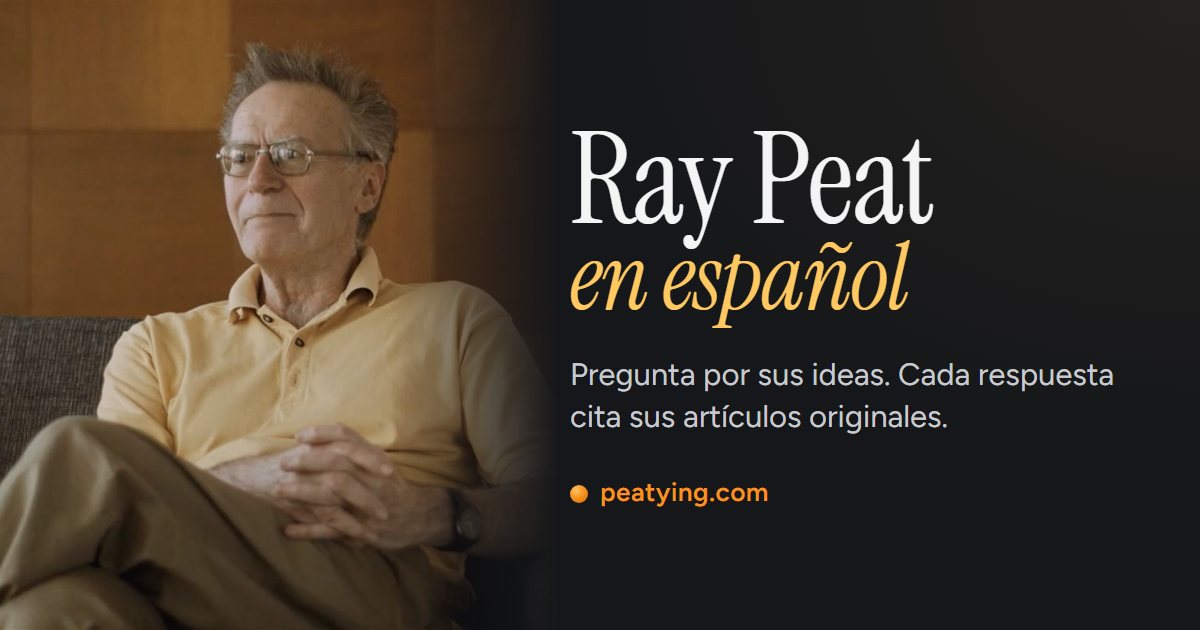
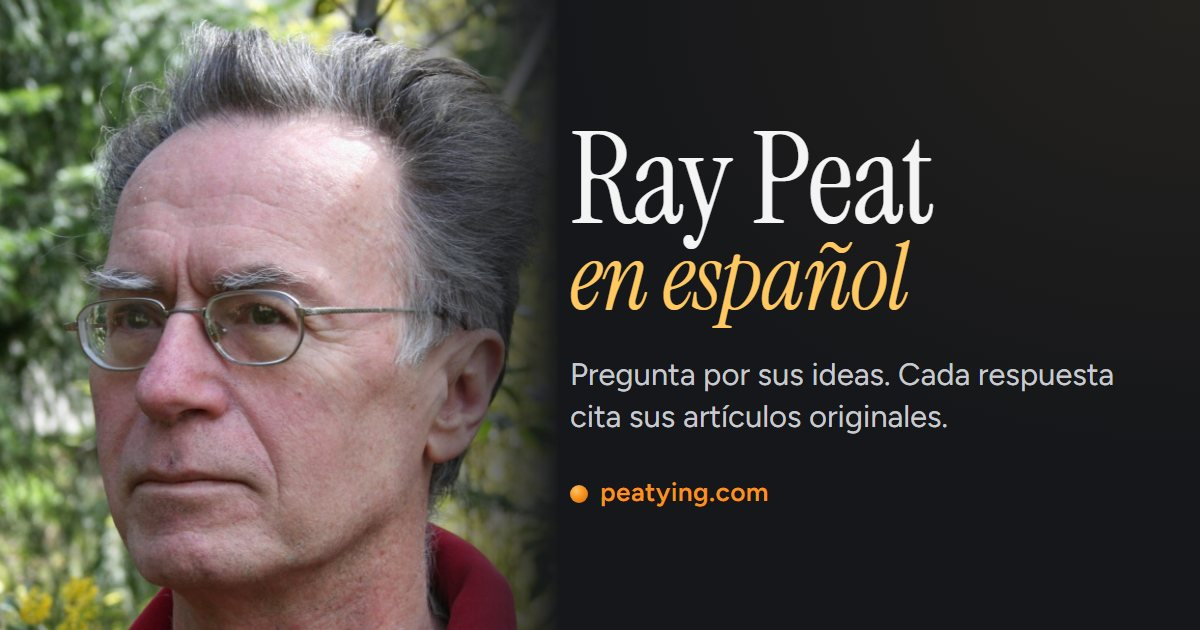
Use a sharper photo of Ray Peat and adapt the cover to portrait and landscape screens
- New photo: a real 1160x1740 portrait (the old one was an upscaled video frame).
- The photo is now an <img>: full-screen behind the title on phones; on wide screens,
  two columns with the whole photo on the left fading into the page and the title on
  the right (full-bleed, a portrait photo only showed the forehead).
- Link preview image regenerated with the new photo; alt texts updated.

diff --git a/src/main/resources/static/styles.css b/src/main/resources/static/styles.css
@@ -640,8 +640,10 @@ li .source-panel { margin: 8px 0 4px; }
 
 /* Quien pide menos animaciones (ajuste del sistema), no las ve. */
 /* --- Página "Sobre Ray Peat" (about.html) ---------------------------------------- */
-/* Portada: ocupa toda la pantalla, con la foto de fondo. El degradado oscurece la parte de abajo,
-   donde va el título, y se funde con el fondo de la página para que no haya un corte al bajar. */
+/* Portada. La foto es vertical, así que cambia según la pantalla:
+   - Móvil (vertical): la foto llena la pantalla y el título va encima, abajo.
+   - Ordenador (horizontal): dos columnas, la foto entera a la izquierda y el título a la derecha.
+     A pantalla completa, una foto vertical se ampliaría tanto que solo se vería la frente. */
 .cover {
   position: relative;
   min-height: 100vh;
@@ -651,12 +653,25 @@ li .source-panel { margin: 8px 0 4px; }
   padding: 0 20px 80px;
   text-align: center;
   overflow: hidden;
-  background:
-    /* arriba, una sombra suave para que se lea la barra que va encima; abajo, el fundido al fondo */
-    linear-gradient(to bottom, rgba(14, 15, 17, 0.7) 0%, rgba(14, 15, 17, 0) 22%),
-    linear-gradient(to top, var(--frame) 0%, rgba(22, 23, 26, 0.85) 10%, rgba(22, 23, 26, 0.7) 35%, rgba(22, 23, 26, 0.1) 70%),
-    url("img/ray-peat.jpg") center 22% / cover no-repeat;
 }
+.cover-photo {
+  position: absolute;
+  inset: 0;
+  width: 100%;
+  height: 100%;
+  object-fit: cover;                   /* llena el hueco recortando lo que sobre, sin deformar */
+  object-position: 50% 22%;            /* con la cara a la vista */
+}
+/* Encima de la foto: arriba, una sombra suave para que se lea la barra; abajo, el fundido al fondo. */
+.cover::after {
+  content: "";
+  position: absolute;
+  inset: 0;
+  background:
+    linear-gradient(to bottom, rgba(14, 15, 17, 0.7) 0%, rgba(14, 15, 17, 0) 22%),
+    linear-gradient(to top, var(--frame) 0%, rgba(22, 23, 26, 0.85) 10%, rgba(22, 23, 26, 0.7) 35%, rgba(22, 23, 26, 0.1) 70%);
+}
+.cover-text, .cover-scroll { position: relative; z-index: 1; }
 /* En esta página la barra de arriba flota sobre la foto en vez de ocupar su propia franja. */
 .about-page .topbar { position: absolute; top: 0; left: 0; right: 0; z-index: 2; color: #f4f4f5; }
 .about-page .wordmark em { color: #c9cacf; }
@@ -668,7 +683,7 @@ li .source-panel { margin: 8px 0 4px; }
 .cover h1 { margin: 6px 0 14px; font: 400 clamp(4.5rem, 16vw, 10rem)/0.9 var(--serif); letter-spacing: -0.01em; }
 .cover-sub { max-width: 30ch; margin: 0 auto; font-size: clamp(1.1rem, 3.5vw, 1.35rem); color: #d6d7db; }
 .cover-sub em { font-family: var(--serif); font-size: 1.15em; color: #ffc861; }
-.cover-scroll {
+.cover .cover-scroll {
   position: absolute;
   left: 50%;
   bottom: 28px;
@@ -679,6 +694,36 @@ li .source-panel { margin: 8px 0 4px; }
   animation: nudge 2s ease-in-out infinite;
 }
 @keyframes nudge { 50% { transform: translateY(8px); } }
+
+@media (min-width: 900px) and (min-aspect-ratio: 1/1) {
+  .cover {
+    grid-template-columns: 44% 1fr;
+    place-content: stretch;
+    align-items: center;
+    gap: 5vw;
+    padding: 0 8vw 0 0;
+    text-align: left;
+    color: var(--text);                /* aquí el título no va sobre la foto: colores del tema */
+  }
+  .cover-photo {
+    position: static;
+    grid-row: 1;
+    height: 100vh;
+    height: 100svh;
+    object-position: 50% 25%;
+    /* el borde derecho de la foto se funde con el fondo de la página */
+    -webkit-mask-image: linear-gradient(to right, #000 72%, transparent 100%);
+            mask-image: linear-gradient(to right, #000 72%, transparent 100%);
+  }
+  .cover::after { width: 44%; background: linear-gradient(to bottom, rgba(14, 15, 17, 0.6) 0%, rgba(14, 15, 17, 0) 20%); }
+  .cover h1, .cover-sub { text-shadow: none; }
+  .cover-kicker { color: var(--muted); }
+  .cover-sub { margin: 0; color: var(--text-soft); }
+  .cover-sub em { color: var(--gold); }
+  .cover .cover-scroll { left: 72%; color: var(--muted); }
+  /* El botón "Volver al chat" queda sobre el fondo de la página, no sobre la foto. */
+  .about-page .topbar .ghost { color: var(--text-soft); background: transparent; backdrop-filter: none; border-color: var(--line); }
+}
 
 .story { max-width: 640px; margin: 0 auto; padding: 20px 20px 90px; font-size: 1.15rem; line-height: 1.75; color: var(--text-soft); }
 .story h2 { margin: 64px 0 14px; font: 400 clamp(2rem, 6vw, 2.6rem)/1.1 var(--serif); color: var(--text); }

diff --git a/src/main/resources/static/about.html b/src/main/resources/static/about.html
@@ -16,13 +16,12 @@
   <meta property="og:image" content="https://peatying.com/img/og.jpg">
   <meta property="og:image:width" content="1200">
   <meta property="og:image:height" content="630">
-  <meta property="og:image:alt" content="Ray Peat sentado en un sofá, junto al texto «Ray Peat en español»">
+  <meta property="og:image:alt" content="Retrato de Ray Peat al aire libre, junto al texto «Ray Peat en español»">
   <meta property="og:locale" content="es_ES">
   <meta name="twitter:card" content="summary_large_image">
   <link rel="icon" href="img/logo.svg" type="image/svg+xml">
   <link rel="apple-touch-icon" href="img/apple-touch-icon.png">
   <link rel="stylesheet" href="styles.css">
-  <link rel="preload" href="img/ray-peat.jpg" as="image">
   <!-- En la cabecera y sin defer: marca la página como "con JavaScript" antes de pintarla, para que
        el texto que aparece al bajar empiece ya oculto (si no, se vería un instante y luego desaparecería). -->
   <script src="about.js"></script>
@@ -39,9 +38,12 @@
     <main>
       <!-- Portada: ocupa la pantalla entera; el resto aparece al bajar. -->
       <section class="cover">
-        <p class="cover-kicker">1936 – 2022</p>
-        <h1>Ray Peat</h1>
-        <p class="cover-sub">Biólogo y fisiólogo. Para él, la salud empieza en <em>la energía de tus células</em>.</p>
+        <img class="cover-photo" src="img/ray-peat.jpg" alt="Retrato de Ray Peat al aire libre" width="1160" height="1740">
+        <div class="cover-text">
+          <p class="cover-kicker">1936 – 2022</p>
+          <h1>Ray Peat</h1>
+          <p class="cover-sub">Biólogo y fisiólogo. Para él, la salud empieza en <em>la energía de tus células</em>.</p>
+        </div>
         <a class="cover-scroll" href="#quien" aria-label="Seguir leyendo">↓</a>
       </section>
 

diff --git a/src/main/resources/static/index.html b/src/main/resources/static/index.html
@@ -16,7 +16,7 @@
   <meta property="og:image" content="https://peatying.com/img/og.jpg">
   <meta property="og:image:width" content="1200">
   <meta property="og:image:height" content="630">
-  <meta property="og:image:alt" content="Ray Peat sentado en un sofá, junto al texto «Ray Peat en español»">
+  <meta property="og:image:alt" content="Retrato de Ray Peat al aire libre, junto al texto «Ray Peat en español»">
   <meta property="og:locale" content="es_ES">
   <meta name="twitter:card" content="summary_large_image">
   <link rel="icon" href="img/logo.svg" type="image/svg+xml">
